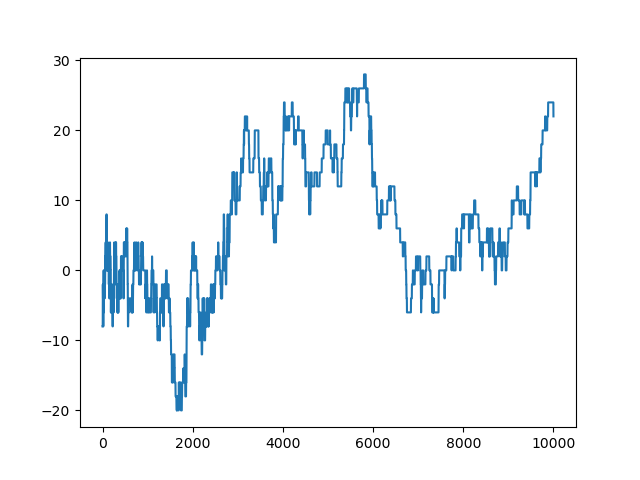
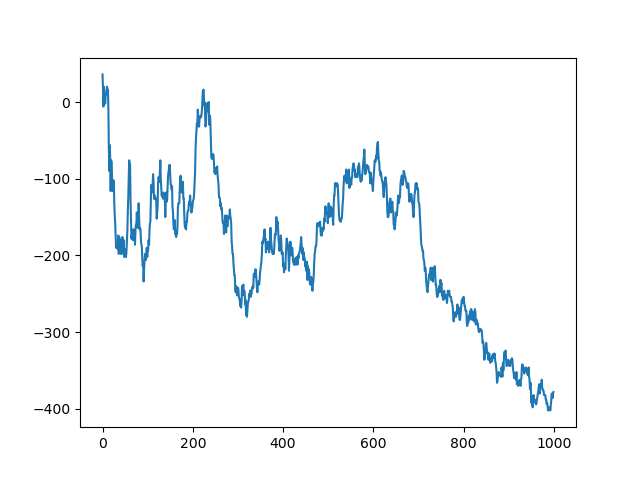
Fixed MC step

diff --git a/final_pres/sznajd_model.py b/final_pres/sznajd_model.py
@@ -2,17 +2,18 @@ import numpy as np
 import matplotlib.pyplot as plt
 
 def MCstep(chain):
-    i = np.random.randint(0, len(chain)-1)
-    if chain[i] == chain[i+1]:
-        if i-1 >= 0:
-            chain[i-1] = chain[i]
-        if i+2 < len(chain):
-            chain[i+2] = chain[i]
-    else:
-        if i-1 >= 0:
-            chain[i-1] = chain[i+1]
-        if i+2 < len(chain):
-            chain[i+2] = chain[i]
+    for j in range(0, len(chain)):
+        i = np.random.randint(0, len(chain)-1)
+        if chain[i] == chain[i+1]:
+            if i-1 >= 0:
+                chain[i-1] = chain[i]
+            if i+2 < len(chain):
+                chain[i+2] = chain[i]
+        else:
+            if i-1 >= 0:
+                chain[i-1] = chain[i+1]
+            if i+2 < len(chain):
+                chain[i+2] = chain[i]
     return chain
 
 def getMag(chain):
@@ -25,7 +26,7 @@ def check_if_changed(chain, chain_copy, time_arr, n_of_step):
             time_arr[i].append(n_of_step)
     #print(isChanged)
 
-N = 100
+N = 1000
 
 chain = np.random.randint(0,2,(N))*2 - 1
 edges = np.linspace(0, N, N+1, endpoint=True)
@@ -34,7 +35,7 @@ m = []
 time_arr_numpy = np.zeros((N, 1), dtype= int)
 time_arr = time_arr_numpy.tolist()
 
-for i in range(0, 10000):
+for i in range(0, 1000):
     x.append(i)
     chain_copy = np.copy(chain)
     chain = MCstep(chain)
@@ -52,7 +53,11 @@ for iTime in time_arr:
         tau.append(iTime[i+1] - iTime[i])
 
 plt.clf()
-plt.hist(tau)
+n, bins, patches = plt.hist(tau, 50)
+plt.cla()
+taux = bins + (bins[1]-bins[0])/2
+taux = taux[0:-1]
+plt.scatter(taux, n)
 plt.xscale('log')
 plt.yscale('log')
 plt.savefig('tauhist.png')
